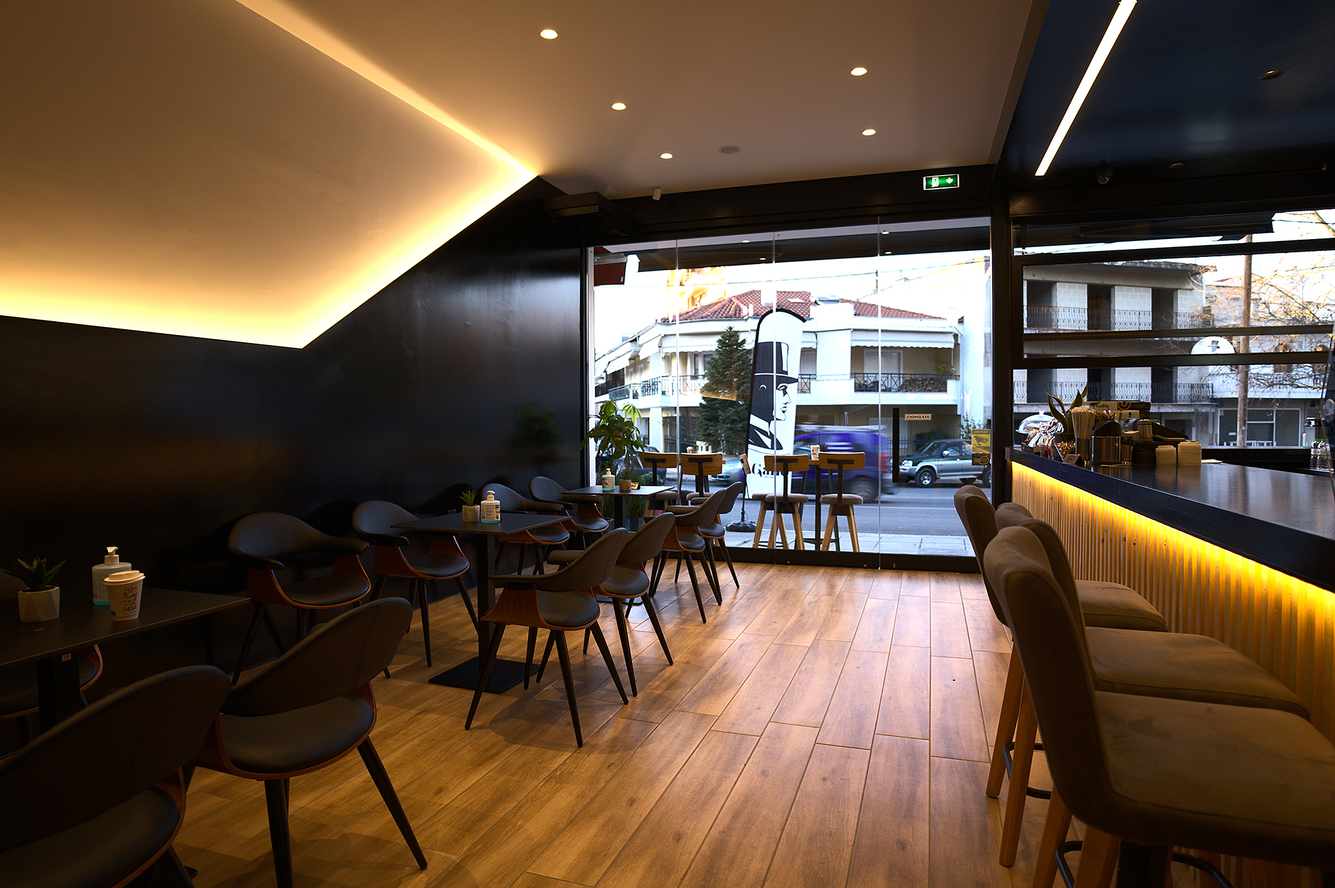
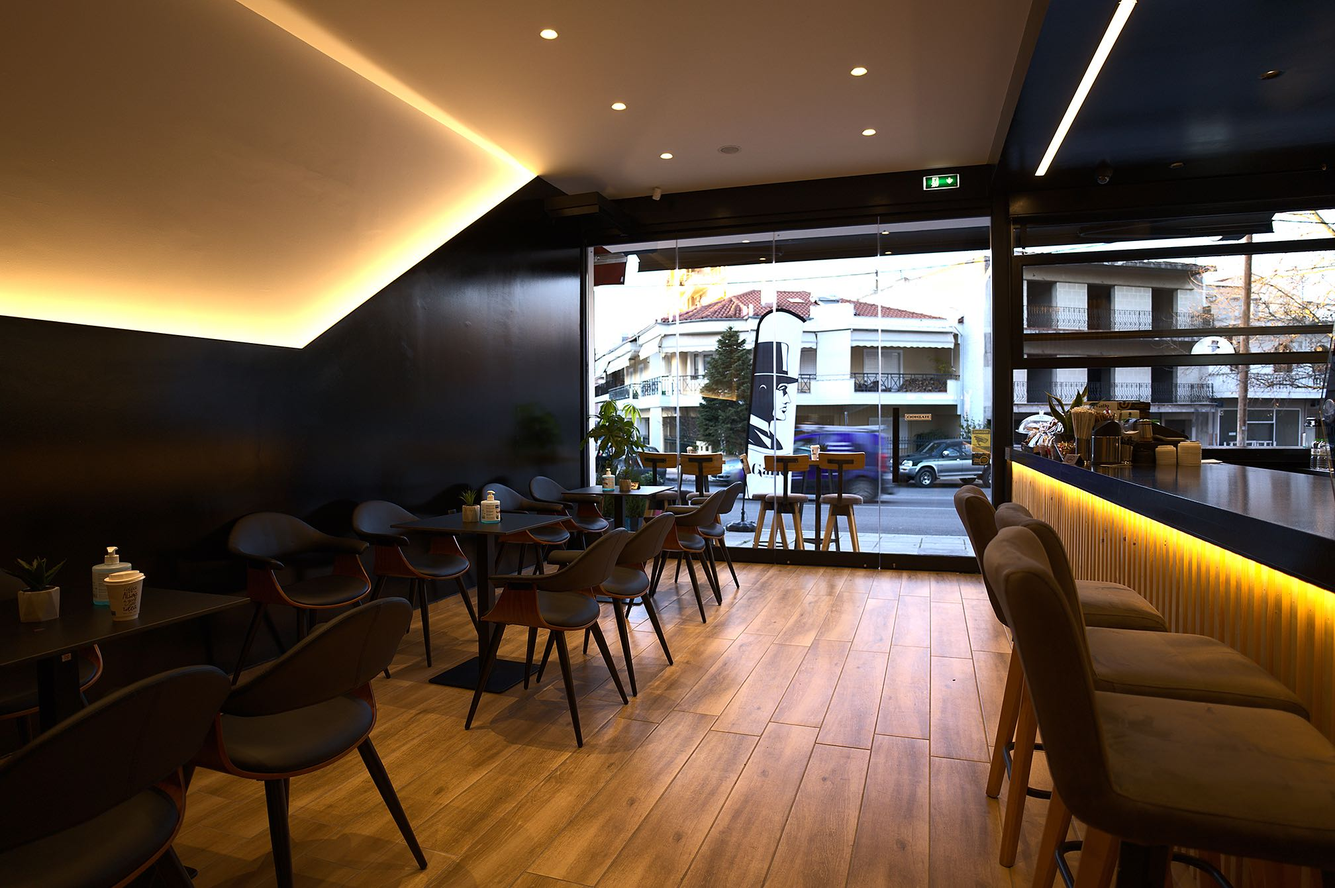
projects and pharmacy project

diff --git a/Gallo_street_cafe_project1.html b/Gallo_street_cafe_project1.html
@@ -145,7 +145,7 @@
             <!-- img 6 left -->
             <div class="p-5  md:px-15 lg:px-15 2xl:grid 2xl:grid-cols-5 2xl:gap-4">
                 <div class="sm:flex sm:flex-col sm:justify-center md:flex md:flex-row md:justify-start lg:flex lg:flex-row  lg:justify-start xl:flex xl:flex-row xl:justify-start 2xl:justify-start  2xl:col-start-3 2xl:col-end-5">
-                    <img class="max-h-[75vh] object-contain rounded-xl shadow-xl/30 animate-on-scroll" data-animate="slideInLeft" src="Project1/Gallo_4_WorkRoomW.jpg" alt="Gallo street cafe larisa by WorkRoom W" />
+                    <img class="max-h-[75vh] object-contain rounded-xl shadow-xl/30 animate-on-scroll" data-animate="slideInLeft" src="Project1/Gallo_7_WorkRoomW.jpg" alt="Gallo street cafe larisa by WorkRoom W" />
                 </div>
             </div>
             <!-- img 7 center -->
